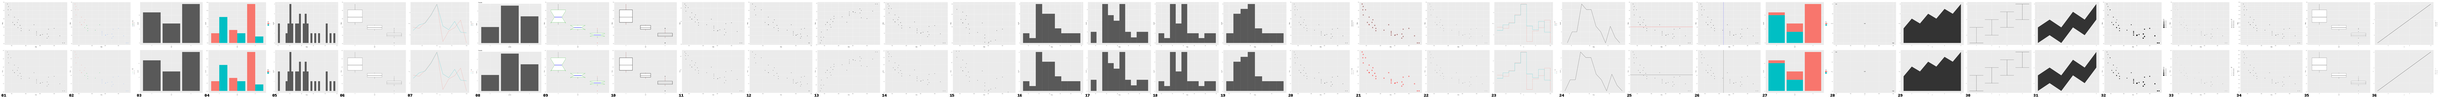
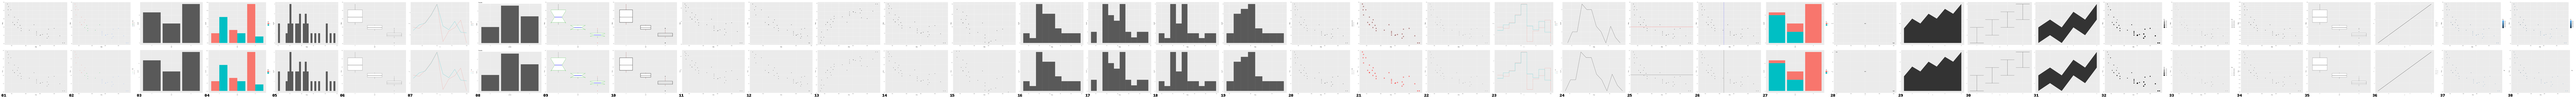
feat(colour): continuous colour Lab 渐变 (scales::pal_grad)
- scale.rs: rgb_to_lab/lab_to_rgb/lab_ramp (D65), 5 断点单测对齐 R
  (#132B43 #22496C #336A98 #448DC6 #56B1F7)
- DiscreteColourScale 增连续形态 (data_lo/hi + ramp 端点), train 收集数据范围
  与显式 limits; draw point_colour 走 lab_ramp
- 4.x 默认连续色 = gradient #132B43->#56B1F7 (非 viridis), 逐点精确匹配
- 新增图 37_colour_cont/38_gradient; 38 图均值 0.54% (残差=色条图例待做)

diff --git a/crates/jplot-core/src/scale.rs b/crates/jplot-core/src/scale.rs
@@ -144,6 +144,61 @@ pub fn hcl_to_rgb(h: f64, c: f64, l: f64) -> Color {
 }
 
 // ---------------------------------------------------------------------------
+// CIE Lab (D65) — scales::pal_grad space="Lab" for continuous colour scales
+// ---------------------------------------------------------------------------
+
+const D65: [f64; 3] = [0.95047, 1.0, 1.08883];
+
+fn lin8(v: f64) -> f64 {
+    if v <= 0.04045 { v / 12.92 } else { ((v + 0.055) / 1.055).powf(2.4) }
+}
+fn delin8(v: f64) -> f64 {
+    if v <= 0.0031308 { 12.92 * v } else { 1.055 * v.powf(1.0 / 2.4) - 0.055 }
+}
+fn labf(t: f64) -> f64 {
+    if t > 216.0 / 24389.0 { t.cbrt() } else { 841.0 / 108.0 * t + 4.0 / 29.0 }
+}
+fn labfi(t: f64) -> f64 {
+    if t > 6.0 / 29.0 { t * t * t } else { (t - 4.0 / 29.0) * 108.0 / 841.0 }
+}
+
+/// sRGB → CIE Lab (D65).
+pub fn rgb_to_lab(r: u8, g: u8, b: u8) -> [f64; 3] {
+    let (rl, gl, bl) = (lin8(r as f64 / 255.0), lin8(g as f64 / 255.0), lin8(b as f64 / 255.0));
+    let x = 0.4124564 * rl + 0.3575761 * gl + 0.1804375 * bl;
+    let y = 0.2126729 * rl + 0.7151522 * gl + 0.0721750 * bl;
+    let z = 0.0193339 * rl + 0.1191920 * gl + 0.9503041 * bl;
+    let (fx, fy, fz) = (labf(x / D65[0]), labf(y / D65[1]), labf(z / D65[2]));
+    [116.0 * fy - 16.0, 500.0 * (fx - fy), 200.0 * (fy - fz)]
+}
+
+/// CIE Lab (D65) → sRGB, clamped with R-style rounding.
+pub fn lab_to_rgb(lab: [f64; 3]) -> Color {
+    let [l, a, bb] = lab;
+    let fy = (l + 16.0) / 116.0;
+    let fx = a / 500.0 + fy;
+    let fz = fy - bb / 200.0;
+    let x = D65[0] * labfi(fx);
+    let y = D65[1] * if l > 7.999592 { labfi(fy) } else { l / 903.3 };
+    let z = D65[2] * labfi(fz);
+    let r = 3.2404542 * x - 1.5371385 * y - 0.4985314 * z;
+    let g = -0.9692660 * x + 1.8760108 * y + 0.0415560 * z;
+    let b = 0.0556434 * x - 0.2040259 * y + 1.0572252 * z;
+    let q = |v: f64| ((delin8(v.clamp(0.0, 1.0)) * 255.0 + 0.5) as i32).clamp(0, 255) as u8;
+    Color::rgb(q(r), q(g), q(b))
+}
+
+/// Lab-space interpolation between two sRGB hex colours (scales::pal_grad).
+pub fn lab_ramp(hex_lo: &str, hex_hi: &str, t: f64) -> Color {
+    let lo = Color::parse(hex_lo).unwrap_or(Color::black());
+    let hi = Color::parse(hex_hi).unwrap_or(Color::white());
+    let a = rgb_to_lab(lo.r, lo.g, lo.b);
+    let b = rgb_to_lab(hi.r, hi.g, hi.b);
+    let t = t.clamp(0.0, 1.0);
+    lab_to_rgb([a[0] + (b[0] - a[0]) * t, a[1] + (b[1] - a[1]) * t, a[2] + (b[2] - a[2]) * t])
+}
+
+// ---------------------------------------------------------------------------
 // Palettes
 // ---------------------------------------------------------------------------
 
@@ -1013,6 +1068,11 @@ pub struct DiscreteColourScale {
     pub levels: Vec<String>,
     pub colours: Vec<Color>,
     pub name: Option<String>,
+    /// continuous form (colour mapped to a numeric column): data range +
+    /// ramp endpoints (Lab-interpolated at draw time)
+    pub data_lo: f64,
+    pub data_hi: f64,
+    pub ramp: Option<(String, String)>,
 }
 
 impl DiscreteColourScale {
@@ -1036,6 +1096,20 @@ impl DiscreteColourScale {
             levels,
             colours,
             name,
+            data_lo: 0.0,
+            data_hi: 1.0,
+            ramp: match spec {
+                ScaleSpec::Gradient { low, high, .. } => Some((low.clone(), high.clone())),
+                _ => None,
+            },
+        }
+    }
+    /// continuous ramp endpoints: explicit scale colours or the default
+    /// ggplot2 Lab gradient (#132B43 → #56B1F7, scales::pal_grad probe-verified)
+    pub fn ramp_hex(&self) -> (&str, &str) {
+        match &self.ramp {
+            Some((a, b)) => (a.as_str(), b.as_str()),
+            None => ("#132B43", "#56B1F7"),
         }
     }
     pub fn map(&self, level: &str) -> Color {
@@ -1159,6 +1233,18 @@ mod tests {
         assert!((t.inverse(2.0) - 100.0).abs() < 1e-9);
         assert!(t.transform(-5.0).is_nan());
         assert!(t.transform(0.0).is_nan());
+    }
+
+    #[test]
+    fn lab_ramp_matches_scales_pal_grad() {
+        // R: scale_colour_gradient breaks map 0/.25/.5/.75/1 ->
+        // #132B43 #22496C #336A98 #448DC6 #56B1F7 (Lab space)
+        let c = |t| crate::scale::lab_ramp("#132B43", "#56B1F7", t);
+        assert_eq!(c(0.0).to_hex().to_uppercase(), "#132B43");
+        assert_eq!(c(0.25).to_hex().to_uppercase(), "#22496C");
+        assert_eq!(c(0.5).to_hex().to_uppercase(), "#336A98");
+        assert_eq!(c(0.75).to_hex().to_uppercase(), "#448DC6");
+        assert_eq!(c(1.0).to_hex().to_uppercase(), "#56B1F7");
     }
 
     #[test]

diff --git a/crates/jplot-core/src/layout.rs b/crates/jplot-core/src/layout.rs
@@ -680,7 +680,15 @@ fn point_colour_of(l: &crate::build::BuiltLayer, i: usize, bp: &BuiltPlot) -> Co
             }
             if let Some(vals) = l.frame.get("colour") {
                 if i < vals.len() {
-                    return gradient_color(vals[i], vals, alpha);
+                    // continuous colour ramp from the scale (gradient default;
+                    // manual colours/limits override)
+                    let (a, b) = cs.ramp_hex();
+                    let t = if cs.data_hi == cs.data_lo {
+                        0.5
+                    } else {
+                        ((vals[i] - cs.data_lo) / (cs.data_hi - cs.data_lo)).clamp(0.0, 1.0)
+                    };
+                    return crate::scale::lab_ramp(a, b, t).with_alpha(alpha);
                 }
             }
         }
@@ -710,10 +718,9 @@ fn gradient_color(v: f64, all: &[f64], alpha: f64) -> Color {
     let lo = all.iter().cloned().fold(f64::INFINITY, f64::min);
     let hi = all.iter().cloned().fold(f64::NEG_INFINITY, f64::max);
     let t = if hi == lo { 0.5 } else { ((v - lo) / (hi - lo)).clamp(0.0, 1.0) };
-    let (r0, g0, b0) = (68u8, 1u8, 84u8);
-    let (r1, g1, b1) = (253u8, 231u8, 37u8);
-    let m = |a: u8, b: u8| (a as f64 + (b as f64 - a as f64) * t).round() as u8;
-    Color::rgb(m(r0, r1), m(g0, g1), m(b0, b1)).with_alpha(alpha)
+    // ggplot2 4.x default continuous colour: Lab-space gradient
+    // #132B43 -> #56B1F7 (scales::pal_grad, probe-verified at 5 stops)
+    crate::scale::lab_ramp("#132B43", "#56B1F7", t).with_alpha(alpha)
 }
 
 fn point_fill_of(l: &crate::build::BuiltLayer, i: usize, bp: &BuiltPlot) -> Color {

diff --git a/crates/jplot-core/src/build.rs b/crates/jplot-core/src/build.rs
@@ -834,8 +834,22 @@ pub fn build(spec: &PlotSpec) -> Result<BuiltPlot, JplotError> {
             order_levels(&mut levels, declared.as_ref());
             Some(DiscreteColourScale::train(levels, &spec))
         } else if cont_vals.len() > 1 {
-            // continuous colour: gradient spec; default endpoints
-            Some(DiscreteColourScale::train(vec![], &spec))
+            // continuous colour: ramp scale over the data range
+            let mut s = DiscreteColourScale::train(vec![], &spec);
+            let lo = cont_vals.iter().cloned().fold(f64::INFINITY, f64::min);
+            let hi = cont_vals.iter().cloned().fold(f64::NEG_INFINITY, f64::max);
+            s.data_lo = lo;
+            s.data_hi = hi;
+            // explicit scale limits override the data range (ggplot2 oob→na.value,
+            // here clamped into the ramp)
+            if let crate::scale::ScaleSpec::Continuous { limits, name, .. } = &spec {
+                if let Some([a, b]) = limits {
+                    s.data_lo = *a;
+                    s.data_hi = *b;
+                }
+                s.name = name.clone();
+            }
+            Some(s)
         } else {
             None
         }
